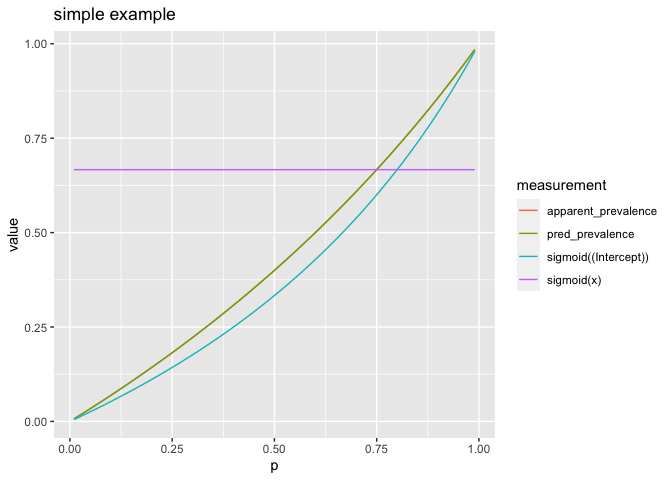
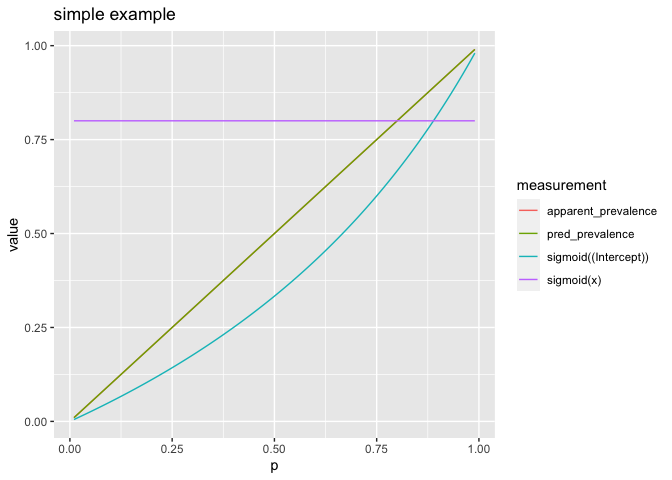
adjust example

diff --git a/rebalance/simple_example.md b/rebalance/simple_example.md
@@ -107,6 +107,7 @@ d_simple <- wrapr::build_frame(
     0  , 0   |
     0  , 1   |
     1  , 0   |
+    1  , 1   |
     1  , 1   )
 
 knitr::kable(d_simple)
@@ -118,6 +119,7 @@ knitr::kable(d_simple)
 |   0 |   0 |
 |   0 |   1 |
 |   1 |   0 |
+|   1 |   1 |
 |   1 |   1 |
 
 ``` r
